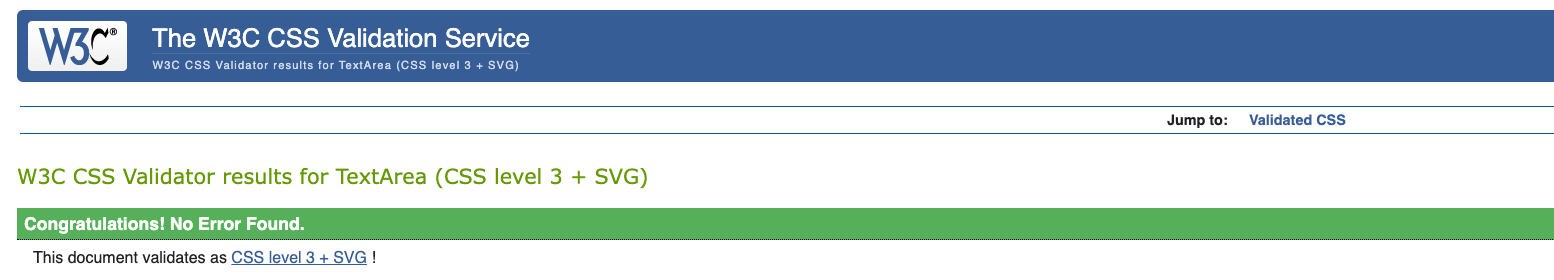
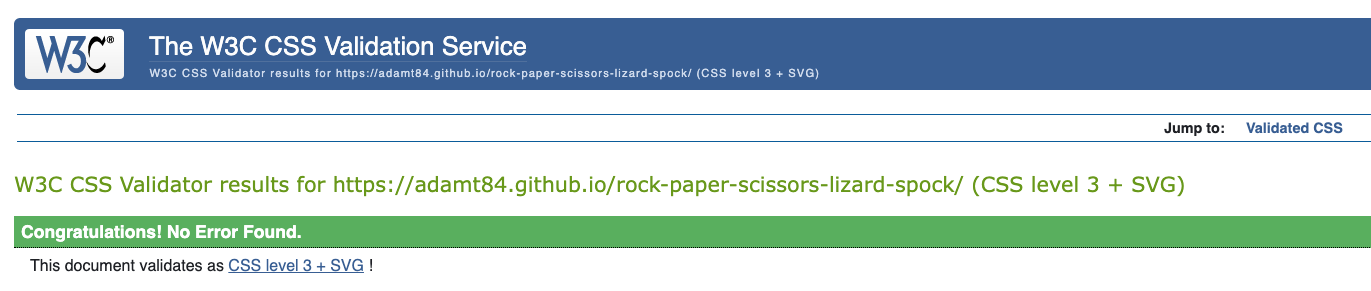
Update to testing screenshots

diff --git a/404.html b/404.html
@@ -14,7 +14,7 @@
     <link rel="stylesheet" href="assets/css/style.css">
 
     <!-- favicon -->
-    <link rel="shortcut icon" type="image/x-icon" href="favicon.ico" />
+    <link rel="shortcut icon" type="image/x-icon" href="favicon.ico">
 
     <title>Rock, Paper, Scissors, Lizard, Spock!</title>
     
@@ -25,7 +25,7 @@
         <p>ERROR</p>
     </div>
     <div id="return">
-        <p>Well this is embarrasing...It would appear this page doesn't exist</p>
+        <p>Well this is embarrassing...It would appear this page doesn't exist</p>
         <a href="index.html" aria-label="return to homepage">Click here to return to the homepage</a>
     </div>
 </body>

diff --git a/TESTING.md b/TESTING.md
@@ -141,9 +141,14 @@ Continual testing was performed during the development of this site by using Dev
 
 The [W3C Markup Validator](https://validator.w3.org/) has been used to validate the HTML code in this project.
 
-- Result was a pass with no errors
+- Result was a pass with no errors for index.html
 
 ![HTML Validator](/screenshots/html-check.png)
+
+- Result was a pass with no errors for 404.html
+
+![404 HTML Validator](/screenshots/html-check-404.png)
+
 
 The [W3C CSS Validator](https://jigsaw.w3.org/css-validator/) has been used to validate the CSS code in this project.
 
